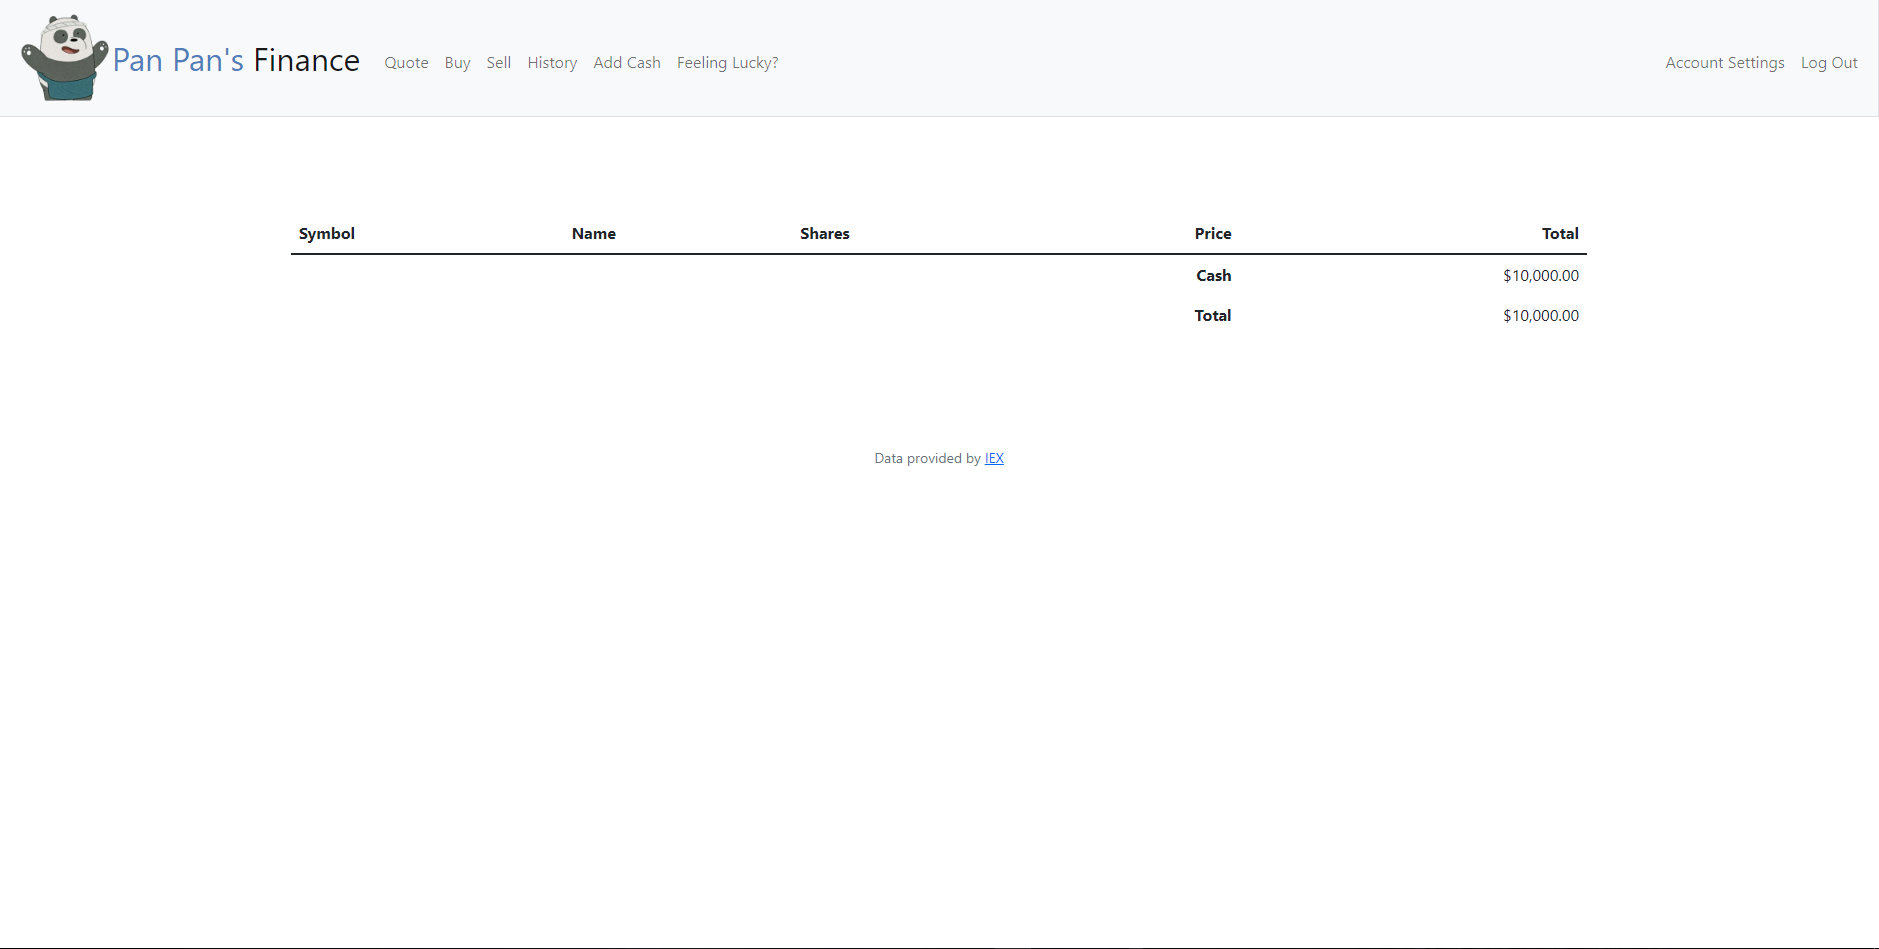
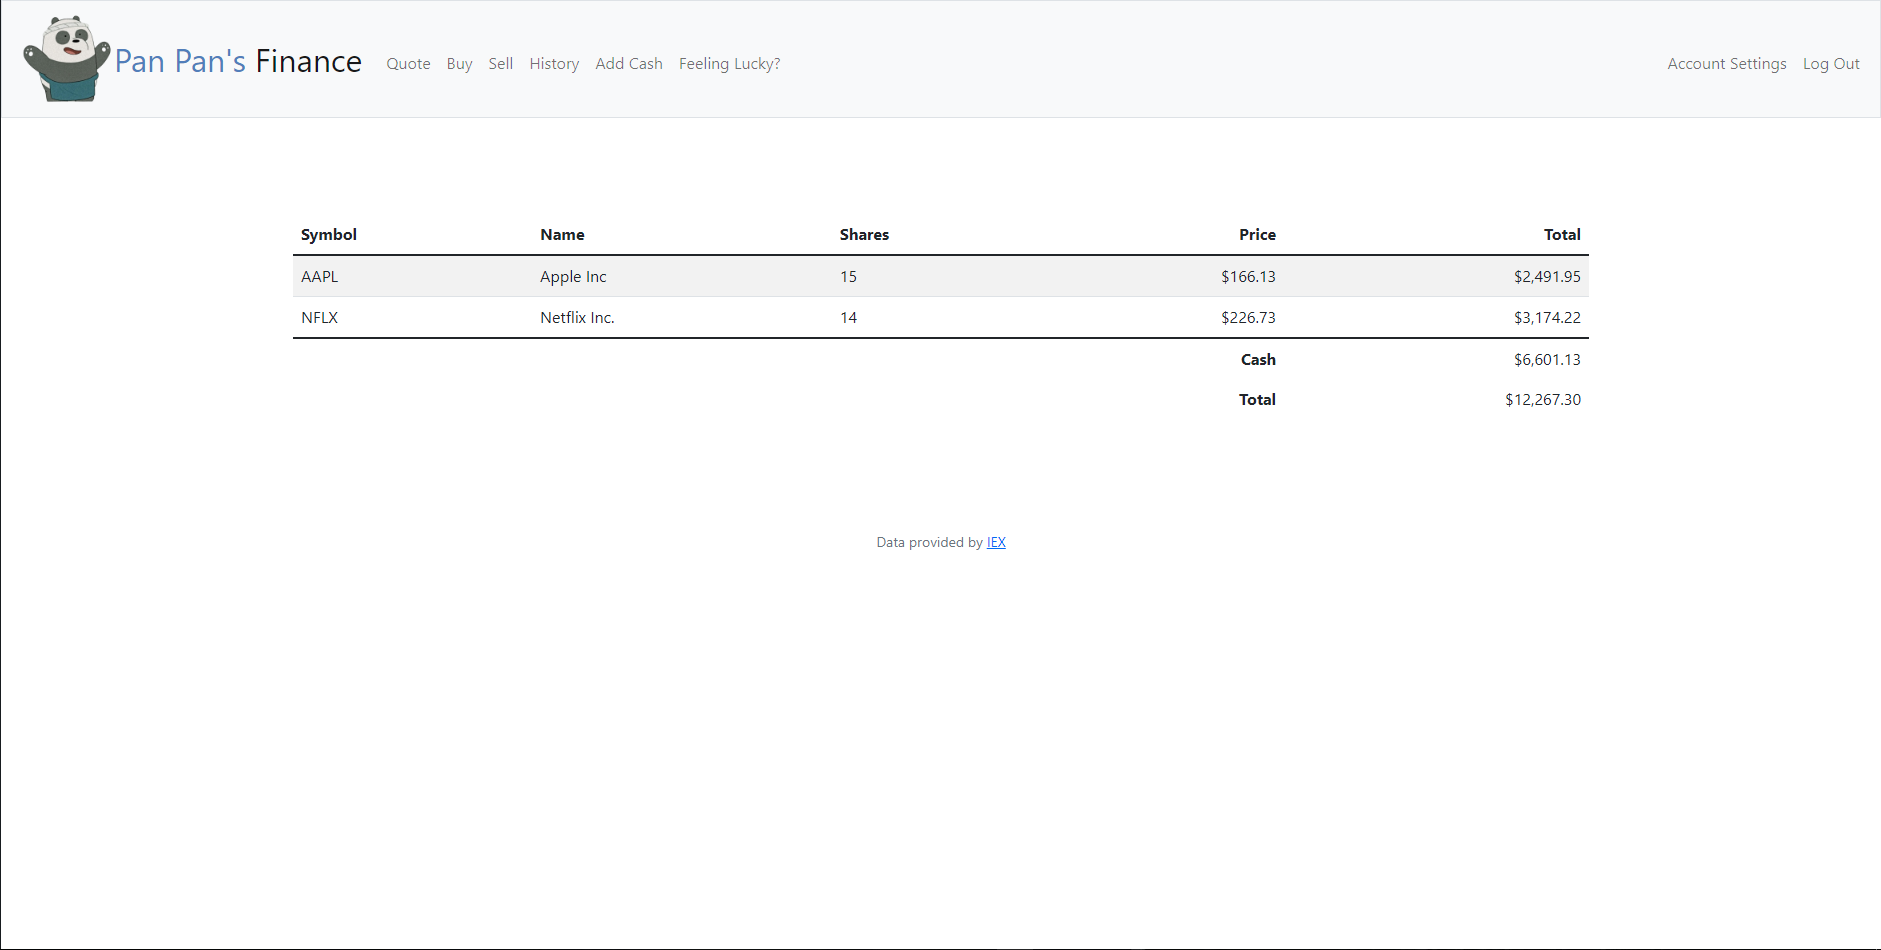
Added README

diff --git a/README.md b/README.md
@@ -45,15 +45,25 @@ Upon clicking the Quote Button, Users will be redirected to a view containing a 
 To illustrate, a User inputting AAPL will return the current market value of Apple's Shares as shown above.
 
 ### 4. Buying Stocks
+![Picture of Buy Form](./Images/Buy%20Form.png?raw=true "Buy Form")
+To buy shares, Users will have to input the Stock Symbol and the Quantity of Shares they would like to buy. If any of the fields are empty, invalid, or if the User cannot afford the shares, an error message will be rendered to Users like before. 
 
+They will then be redirected to the index page to see all the shares they have purchased.
 
 ### 5. Selling Stocks
+![Picture of Sell Form](./Images/Sell%20Form.png?raw=true "Sell Form")
+Similar to the Buy Form, Users will have to indicate the Symbol and Quantity to sell their shares. However, the Symbol will be in a dropdown list as Users should not be able to sell stocks that they do not yet possess. Once the shares are sold, they will be redirected to the Index Page as well.
 
-
-### 6. Transaction History 
+### 6. Transaction History
+![Picture of Transactions](./Images/History.png?raw=true "Transactions")
+Upon clicking History, Users will be redirected to a view that presents all of the transactions made by the User in reverse chronological order as shown above. The sign of the quantity will indicate if the transaction was a Buy or Sell.
 
 ### 7. Additional QOL Features
+![Picture of Add Cash](./Images/Add%20Cash.png?raw=true "Add Cash")
+Users are also able to top up more cash into their account if their funds are running low.
 
+![Picture of Change Password](./Images/Change%20Password.png?raw=true "Change Password")
+Users can also change their password if they like.
 
 ## Learning Outcomes
 
